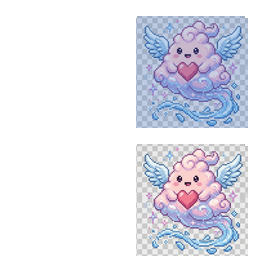
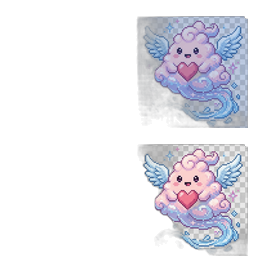
assets(greamici): odstraněné pozadí u dospělých spritů (jiskra, atlas, srodik)
Stage-4 sprity měly nevyříznuté pozadí (dekorace/pastelové washe). Vyčištěno
AI segmentací (rembg/u2net) na obou obsahových buňkách (sad+happy) + lehké
odmazání slabých zbytků. Okraj-opacita: jiskra 36→11 %, atlas 39→3 %,
srodik 38→8 % (čisté jako kamen/vlnka 4-6 %).

lilek ponechán v originále — rembg (u2net i isnet) strom-postavu chybně mazal;
jeho „pozadí" jsou spíš rozvětvené větve (nejmenší problém, okraj 22 %).
kamen+vlnka a všechny stage 2/3 byly čisté už předtím.

SW VERSION v13→v14 (cache-bust obrázků).

diff --git a/sw.js b/sw.js
@@ -4,7 +4,7 @@
 //            cache-first for media (audio, images, leaflet, OSM tiles)
 // ═══════════════════════════════════
 
-const VERSION = 'gream-v13';
+const VERSION = 'gream-v14';
 const STATIC_CACHE = `${VERSION}-static`;
 const TILES_CACHE  = `gream-tiles-v1`;
 const LEAFLET_CACHE = `gream-leaflet-v1`;